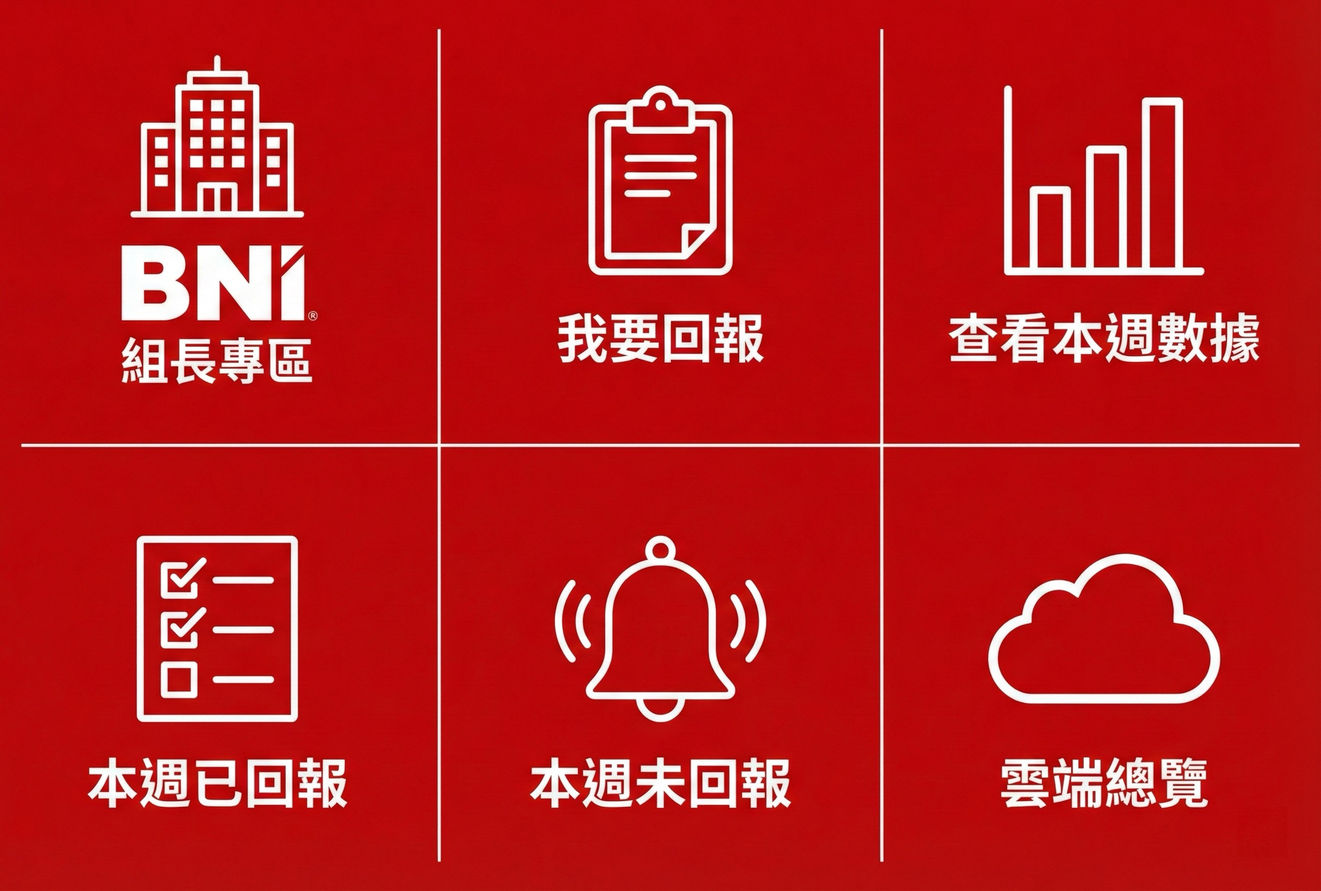
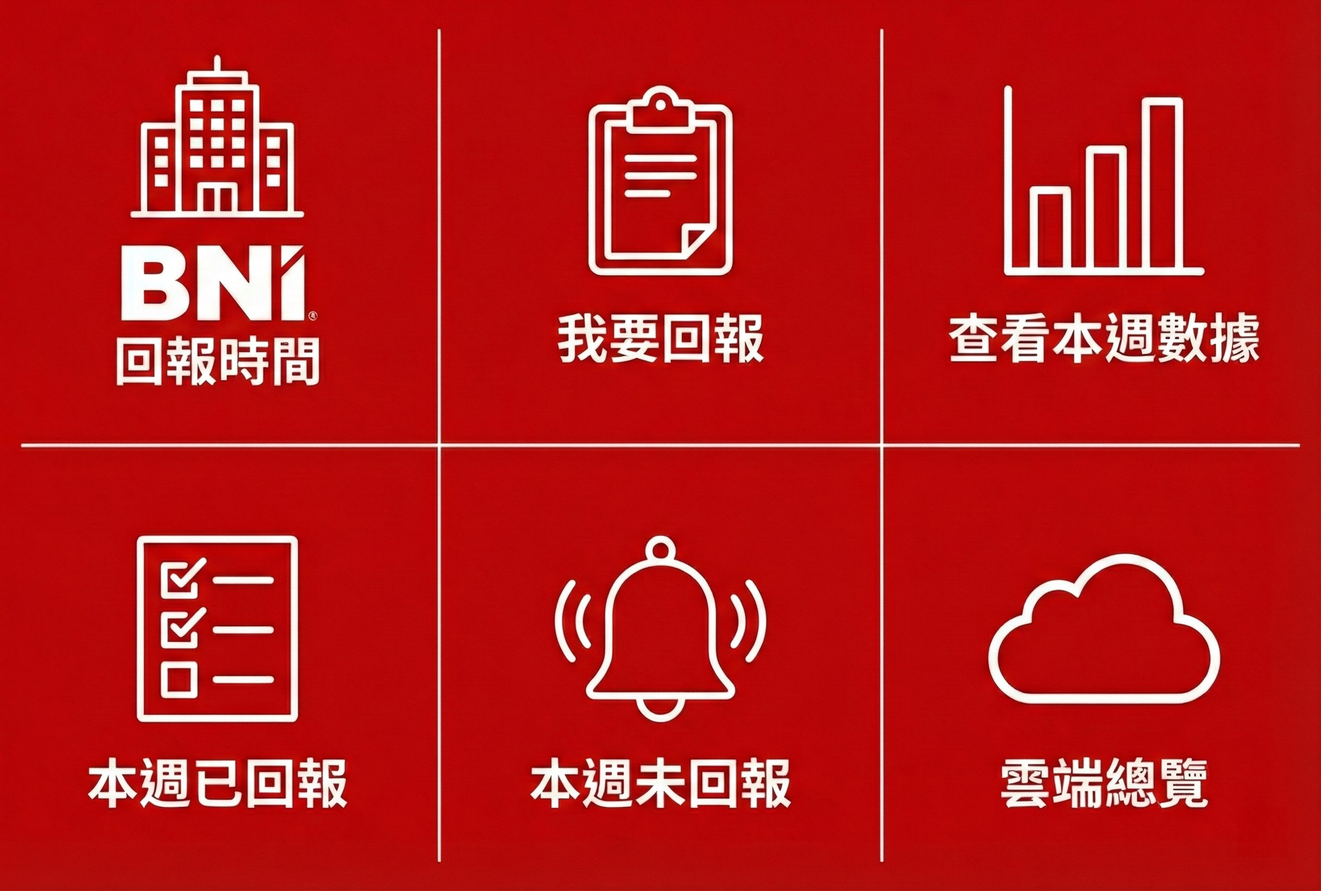
added 回報時間 for leader

diff --git a/app_docs/rich-menu.md b/app_docs/rich-menu.md
@@ -1,6 +1,6 @@
 # LINE Rich Menu 技術文件
 
-> 最後更新：2025-01-26
+> 最後更新：2025-01-26 v2
 > 官方文檔來源：LINE Developers
 
 ## 官方文檔連結
@@ -224,6 +224,33 @@ Per-User Rich Menu > Default Rich Menu > LINE Official Account Manager 設定
 | 上方區塊 | x:0, y:0, w:2500, h:295 | `action=show_report_time` |
 | 下方左側 | x:0, y:295, w:1250, h:548 | `action=start_report` |
 | 下方右側 | x:1250, y:295, w:1250, h:548 | `action=view_my_summary` |
+
+### Menu_Leader 區塊配置
+
+```
+┌───────────────┬───────────────┬───────────────┐
+│               │               │               │
+│   回報時間     │   我要回報     │  查看本週數據  │  y=0, h=843
+│   0, 0        │   833, 0      │   1667, 0     │
+│   833x843     │   834x843     │   833x843     │
+│               │               │               │
+├───────────────┼───────────────┼───────────────┤
+│               │               │               │
+│  本週已回報    │  本週未回報    │   雲端總覽    │  y=843, h=843
+│   0, 843      │   833, 843    │   1667, 843   │
+│   833x843     │   834x843     │   833x843     │
+│               │               │               │
+└───────────────┴───────────────┴───────────────┘
+```
+
+| 區塊 | Bounds | Action |
+|------|--------|--------|
+| 回報時間 | x:0, y:0, w:833, h:843 | `action=show_report_time` |
+| 我要回報 | x:833, y:0, w:834, h:843 | `action=start_report` |
+| 查看本週數據 | x:1667, y:0, w:833, h:843 | `action=view_my_summary` |
+| 本週已回報 | x:0, y:843, w:833, h:843 | `action=view_reported_list` |
+| 本週未回報 | x:833, y:843, w:834, h:843 | `action=view_not_reported` |
+| 雲端總覽 | x:1667, y:843, w:833, h:843 | `action=open_sheet` |
 
 ### 切換邏輯
 
